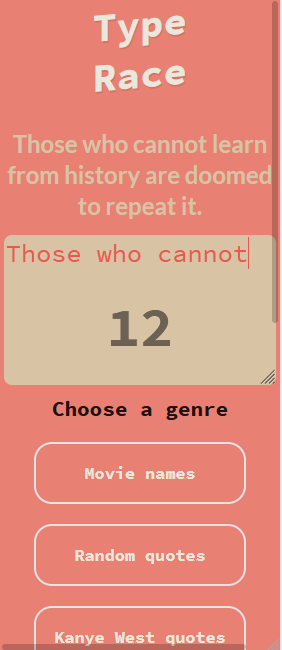
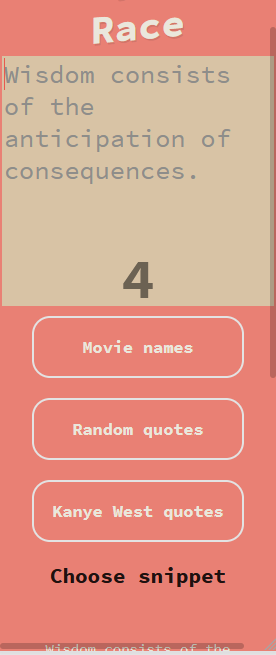
updated presentation images and thumbnail

diff --git a/README.md b/README.md
@@ -28,23 +28,29 @@ The application attempts to retreive each category of text snippet dynamically v
 ## Default view (Galaxy Fold emulation)
 <img src="presentation/1.PNG" width="250">
 
-## After selecting random quotes as genre and scrolling down to view snippets (Galaxy Fold emulation)
+## After selecting random quotes as genre, application automatically scrolls down (Galaxy Fold emulation)
 <img src="presentation/2.PNG" width="250">
 
 ## After choosing a random snippet and beginning type race (Galaxy Fold emulation)
 <img src="presentation/3.PNG" width="250">
 
-## After completing type race (Galaxy Fold emulation)
+## Mid game. Typed characters (pink) overlay selected snippet (grey) - (Galaxy Fold emulation)
 <img src="presentation/4.PNG" width="250">
 
-## Default view prior to selecting Kanye West quotes
+## After completing type race. Displays time in milliseconds and words per minute (Galaxy Fold emulation)
+<img src="presentation/4-2.PNG" width="250">
+
+## Default view (Desktop)
 <img src="presentation/5.PNG" width="800">
 
-## Prior to selecting a Kanye West quote
+## After selecting random quote genre. Automatically scrolls down (Desktop)
 <img src="presentation/6.PNG" width="800">
 
-## After selecting a Kanye West quote and starting type race
+## After selecting a random quote and starting type race (Desktop)
 <img src="presentation/7.PNG" width="800">
 
-## After completing type race
+## Mid game. Typed characters (pink) overlay selected snippet (grey) - (Desktop)
 <img src="presentation/8.PNG" width="800">
+
+## After completing type race. Displays time in milliseconds and words per minute (Desktop)
+<img src="presentation/9.PNG" width="800">
